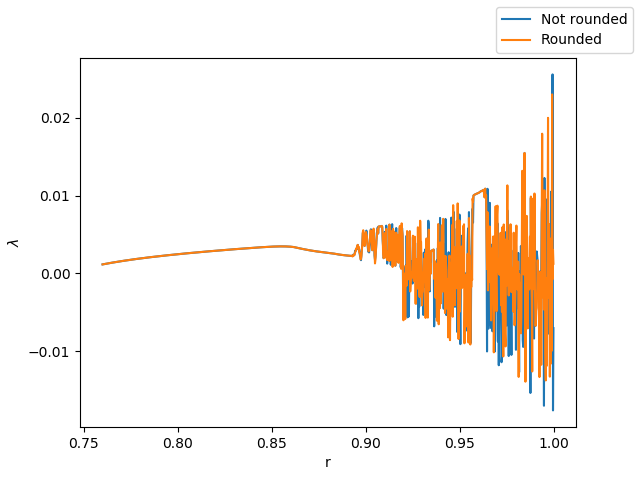
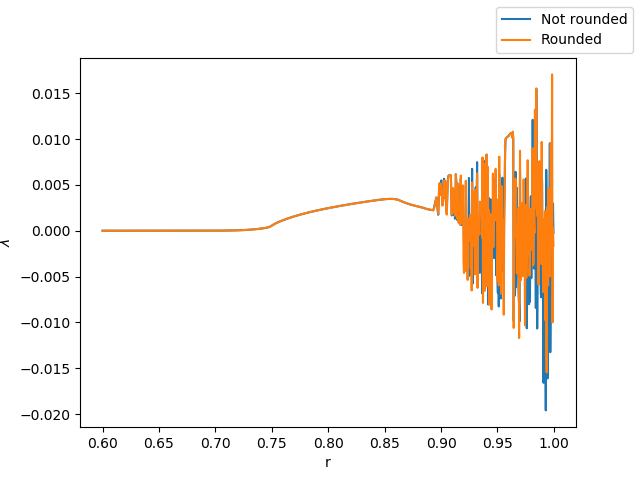
Update 2.2 and conclusions

diff --git a/tasks/task2/2_2.py b/tasks/task2/2_2.py
@@ -14,7 +14,7 @@ def sum(r, x0, round):
 
 
 def runFor(x0, round=False):
-    rvals = np.linspace(0.76, 1, 1000)
+    rvals = np.linspace(0.6, 1, 1000)
     sumvals = []
     for r in rvals:
         sumvals.append(sum(r, x0, round))
@@ -31,12 +31,12 @@ plt.ylabel("$\lambda$")
 plt.savefig("./plots/2_2/study.png")
 
 legendLabels = []
-plt.figure()
+plt.figure(figsize=[8, 3])
 for x0 in np.linspace(0, 1, 50):
     runFor(x0, False)
     legendLabels.append("$x_0 = {0:.2f}$".format(x0))
 plt.xlabel("r")
 plt.ylabel("$\lambda$")
-plt.figlegend(legendLabels)
-plt.subplots_adjust(left=0.15, right=0.8, top=0.9, bottom=0.1)
-plt.savefig("./plots/2_2/dependence.png", dpi=160, bbox_inches="tight")
+plt.figlegend(legendLabels, ncol=3)
+plt.subplots_adjust(left=0.15, right=0.5, top=0.9, bottom=0.1)
+plt.savefig("./plots/2_2/dependence.png", dpi=200, bbox_inches="tight")
